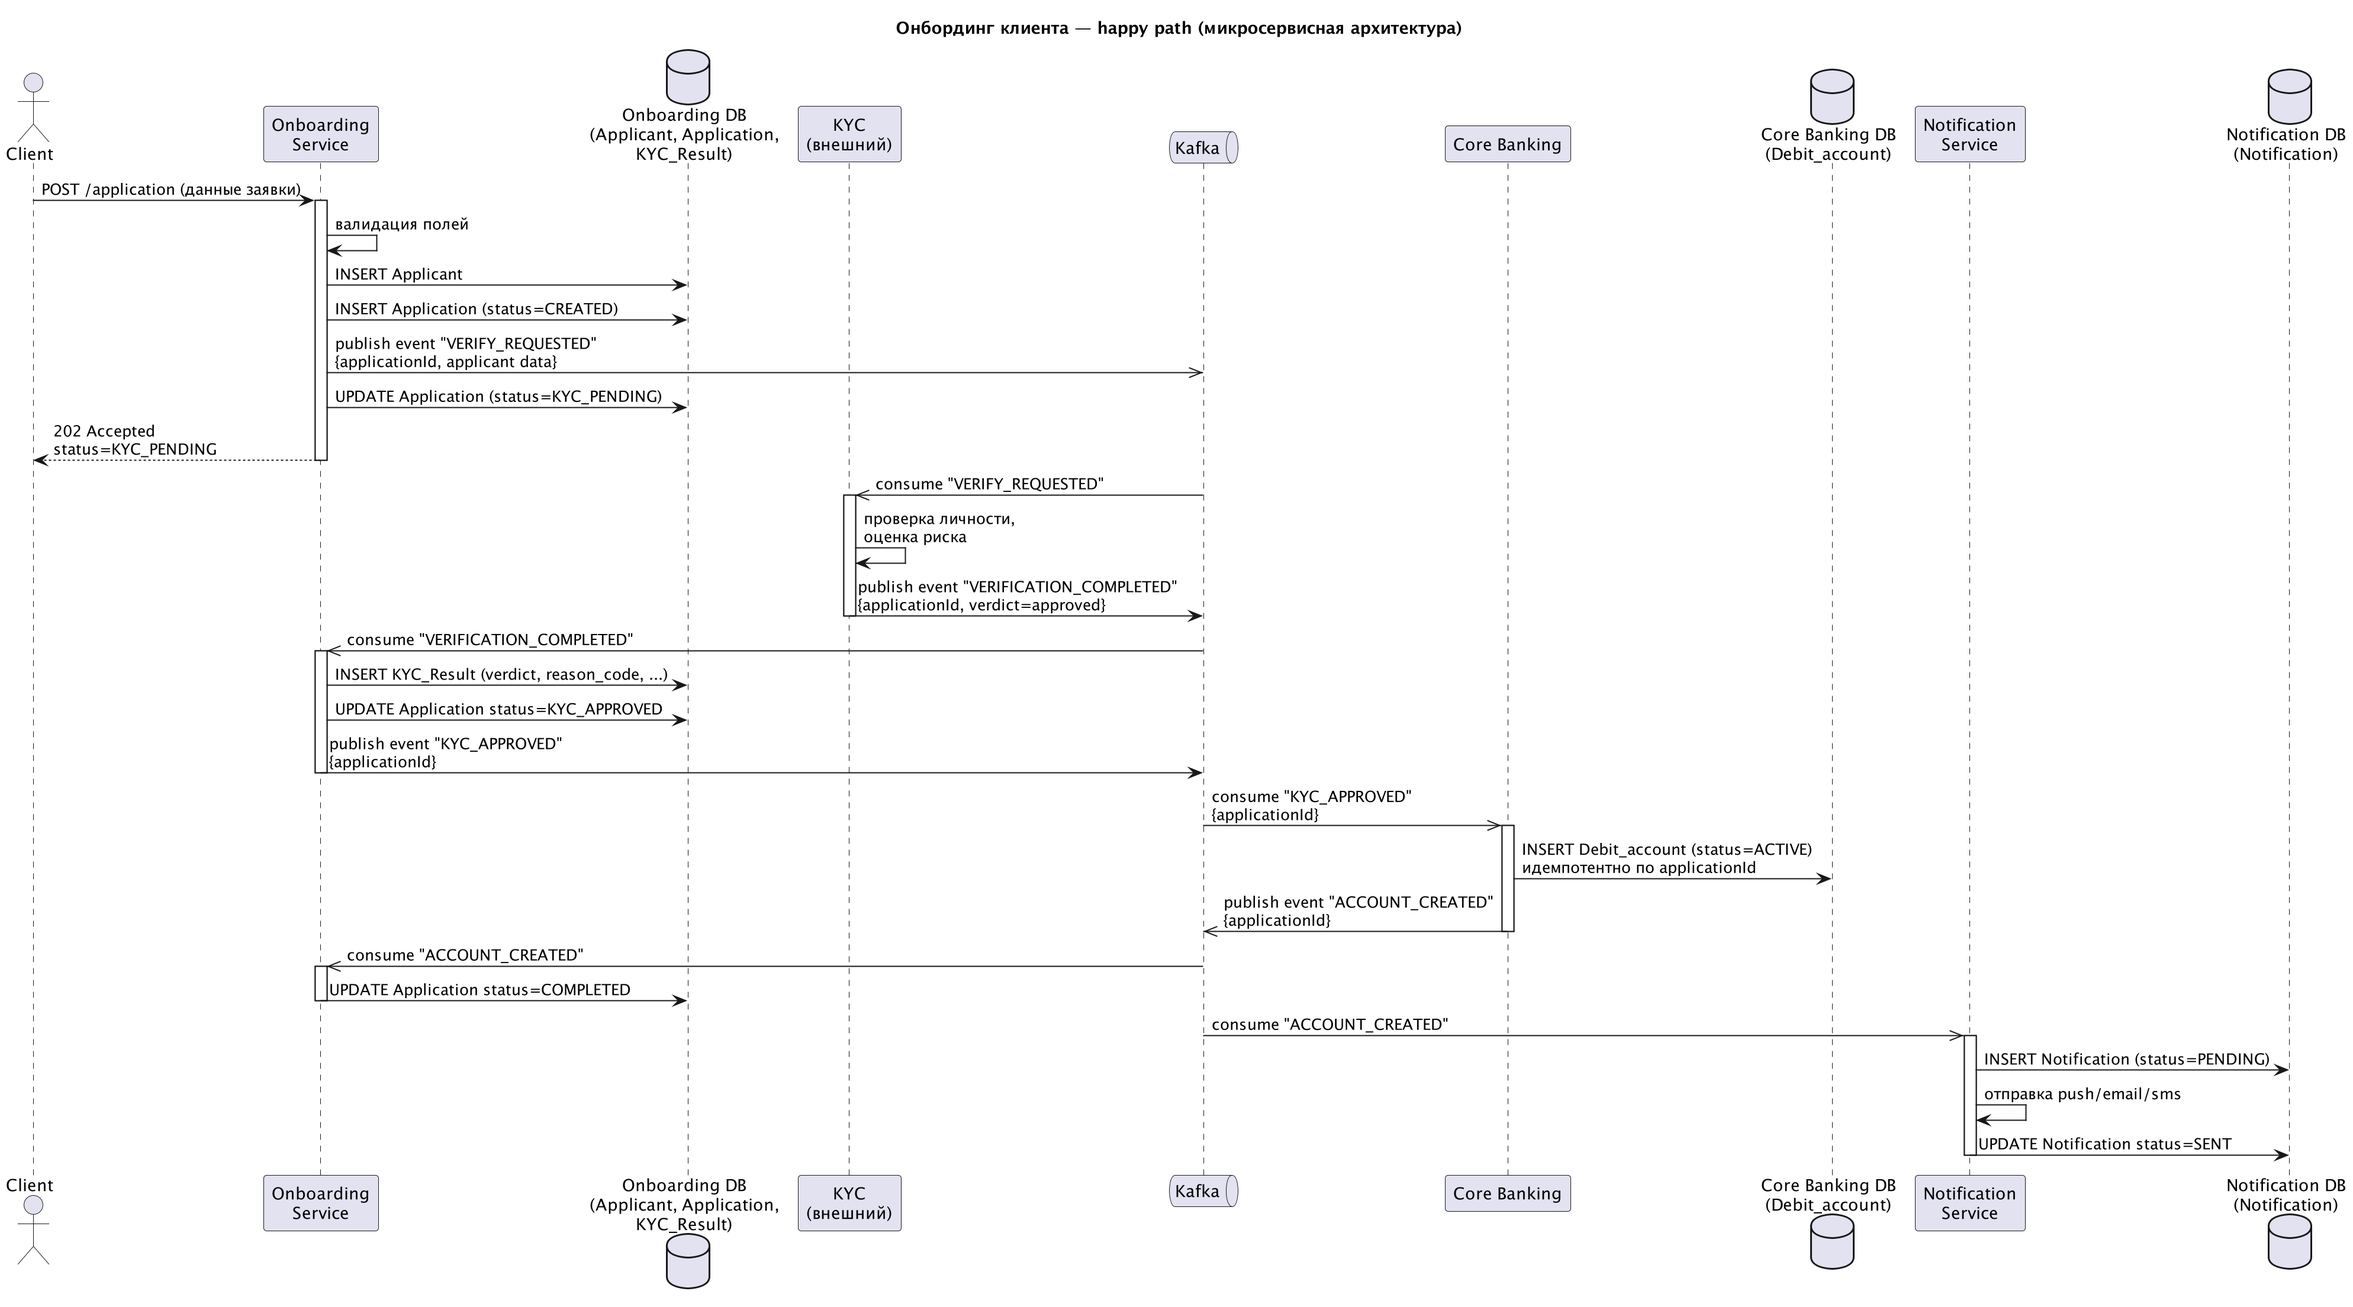
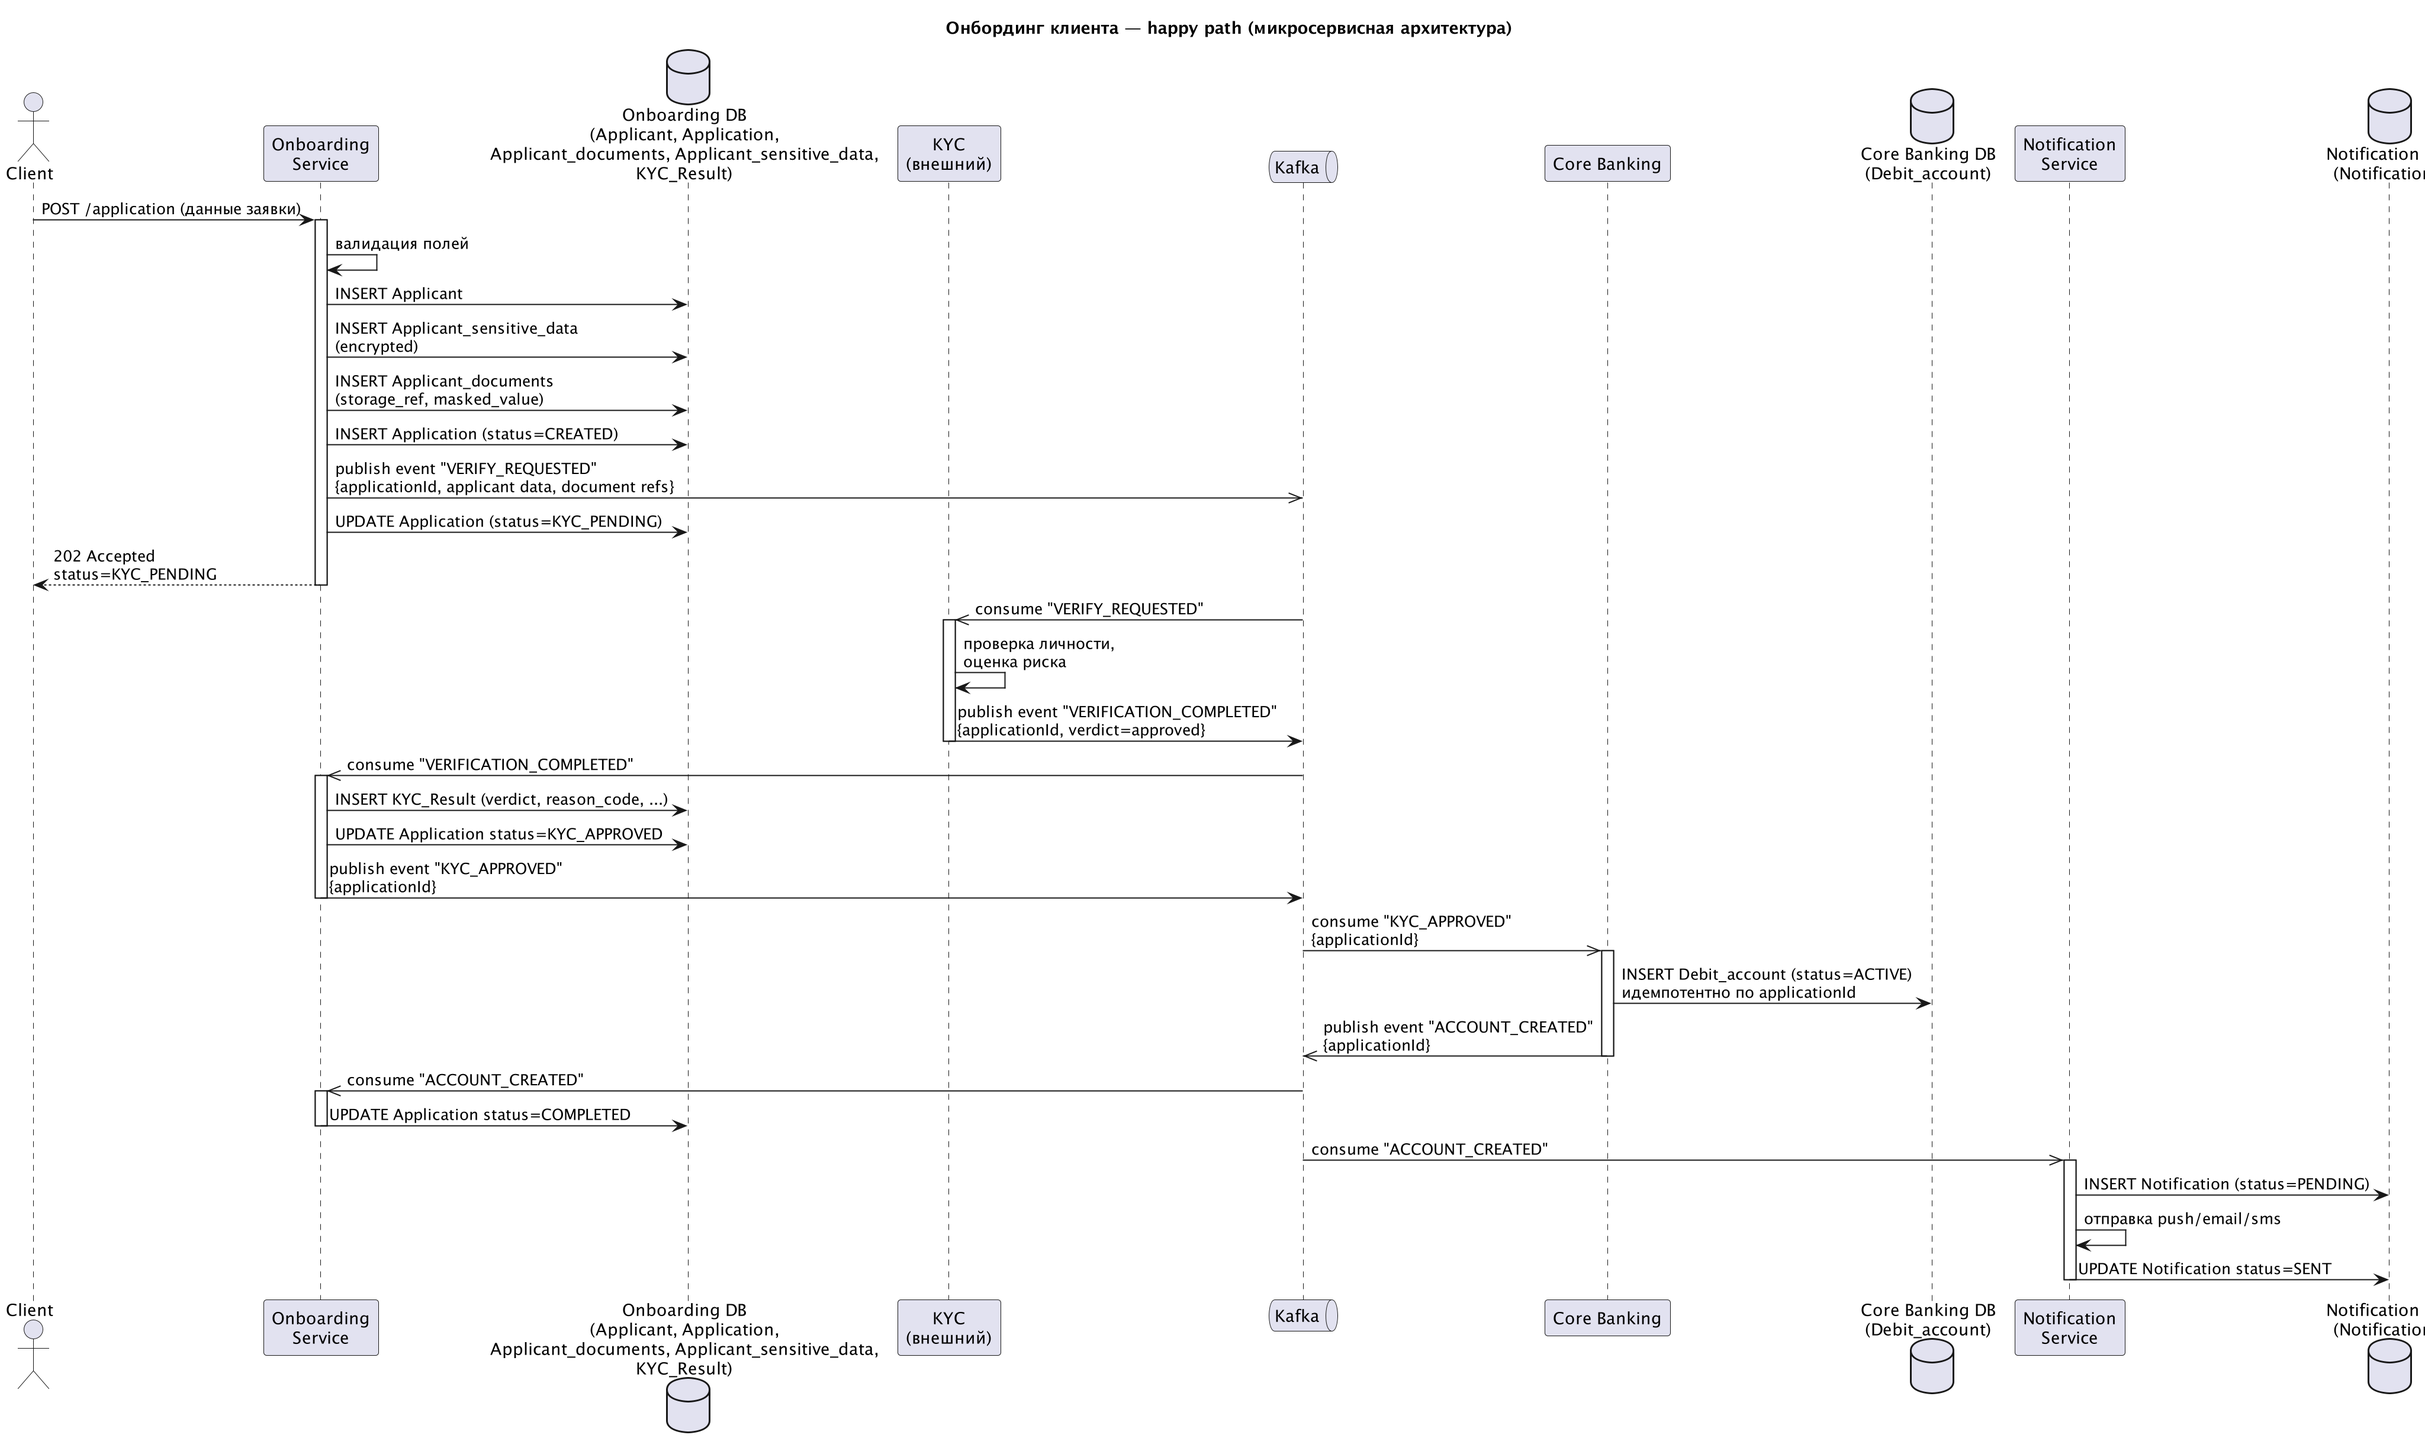
feat: обновил ERD и DBML, добавил новые таблицы и связи для обработки документов и чувствительных данных клиента

diff --git a/requirements/use-cases.md b/requirements/use-cases.md
@@ -22,10 +22,10 @@
 
 ### Happy Path
 1. [Client] нажал на кнопку "Открыть счёт"
-2. [Система] предоставляет форму для заполнения данных
-3. [Client] заполняет все необходимые поля и нажимает "Оформить заявку"
-4. [Система] валидирует введённые данные
-5. [Система] отправляет данные в KYC
+2. [Система] предоставляет форму для заполнения персональных данных и загрузки документов (паспорт, фото)
+3. [Client] заполняет все необходимые поля, загружает документы и нажимает "Оформить заявку"
+4. [Система] валидирует введённые данные и наличие обязательных документов
+5. [Система] сохраняет персональные данные и документы, отправляет данные в KYC
 6. [KYC] проверяет личность клиента и оценивает риски
 7. [KYC] отправляет в систему статус "Approved"
 8. [Система] принимает статус "Approved"
@@ -33,9 +33,9 @@
 10. [Система] отправляет уведомление клиенту со статусом "Approved"
 
 ### Альтернативные сценарии
-- **4a.** Не все поля заполнены → система не пропускает заявку, просит заполнить обязательные поля (подсвечены красным)
+- **4a.** Не все обязательные поля заполнены или не загружены обязательные документы → система не пропускает заявку, просит заполнить/загрузить недостающее (подсвечены красным)
 - **5a.** KYC-сервис недоступен/не отвечает → клиент видит статус "заявка обрабатывается", результат придёт позже, заявка не теряется
 - **7a.** KYC оценил клиента как высокорискованного, статус "Rejected" → заявка отклоняется, клиент уведомляется
 - **7b.** KYC вернул статус "Manual Review" → заявка переходит в MANUAL_REVIEW, клиенту показывается "проверка занимает больше времени"
-- **7c.** Заявка в MANUAL_REVIEW → менеджер вручную рассматривает через административный интерфейс, выставляет решение (approved/rejected)
+- **7c.** Заявка в MANUAL_REVIEW → менеджер вручную рассматривает через административный интерфейс (включая загруженные документы), выставляет решение (approved/rejected)
 - **9a.** Ошибка при создании счёта в Core Banking после успешного KYC → клиент не получает преждевременного уведомления об успехе; система гарантирует, что счёт будет создан ровно один раз

diff --git a/requirements/functional.md b/requirements/functional.md
@@ -1,11 +1,11 @@
 # Функциональные требования
 
-| № | Требование | Источник | Приоритет | Статус |
-|---|---|---|---|---|
-| FR-001 | Система должна предоставить клиенту форму для ввода персональных данных при регистрации | — | Must | — |
-| FR-002 | Система должна валидировать обязательные поля формы при попытке отправки заявки, подсвечивать незаполненные поля и блокировать отправку до их заполнения | — | Must | — |
-| FR-003 | Система должна отправлять данные заявки в KYC-сервис после успешной валидации формы | — | Must | — |
-| FR-004 | Система должна создавать банковский счёт в Core Banking при получении статуса "KYC approved" | — | Must | — |
-| FR-005 | Система должна уведомлять клиента при получении статуса "KYC_APPROVED" | — | Must | — |
-| FR-006 | Система должна отклонять заявку и уведомлять клиента при получении статуса "KYC_REJECTED" | — | Must | — |
-| FR-007 | Система должна уведомлять клиента при получении статуса "MANUAL_REVIEW" | — | Must | — |
+
+| FR-001 | Система должна предоставить клиенту форму для ввода персональных данных при регистрации 
+| FR-002 | Система должна валидировать обязательные поля формы при попытке отправки заявки, подсвечивать незаполненные поля и блокировать отправку до их заполнения 
+| FR-003 | Система должна отправлять данные заявки в KYC-сервис после успешной валидации формы 
+| FR-004 | Система должна создавать банковский счёт в Core Banking при получении статуса "KYC approved" 
+| FR-005 | Система должна уведомлять клиента при получении статуса "KYC_APPROVED" 
+| FR-006 | Система должна отклонять заявку и уведомлять клиента при получении статуса "KYC_REJECTED" 
+| FR-007 | Система должна уведомлять клиента при получении статуса "MANUAL_REVIEW" 
+| FR-008 | Система должна предоставлять клиенту возможность загрузить документы (паспорт, фото) как часть формы заявки 

diff --git a/requirements/non-functional.md b/requirements/non-functional.md
@@ -2,8 +2,9 @@
 
 - **Производительность:** время ответа API не более 5000 мс
 - **Доступность:** 99.9% в год (~8.76 часа простоя в год)
+- **Security/Compliance:** чувствительные персональные данные (паспорт, СНИЛС, ИНН, адреса) хранятся в БД в зашифрованном виде; сканы документов (паспорт, фото) не хранятся в основной БД — только ссылка на защищённое хранилище (vault)
 
 ## TODO — доработать по замечаниям ревью
 - Throughput: сколько заявок в секунду/минуту система должна выдерживать (бизнес-цель — "тысячи заявок")
 - Latency отдельно для синхронной части (валидация, ответ 202) и асинхронной (полный цикл CREATED → COMPLETED)
-- Security/Compliance: шифрование персональных данных (паспорт, фото) в Kafka и БД
+- Security/Compliance: шифрование данных именно в Kafka (in-transit) — вопрос ещё не проработан, сейчас закрыт только уровень БД

diff --git a/requirements/glossary.md b/requirements/glossary.md
@@ -1,9 +1,10 @@
 # Глоссарий
 
-| Термин | Значение |
-|---|---|
+
 | Applicant | Физическое лицо, подающее заявку на открытие счёта |
 | Application | Заявка на открытие счёта, привязанная к Applicant |
 | KYC verdict | Итоговое решение KYC-провайдера: approved / rejected / manual_review |
+| Applicant Document | Скан/фото документа клиента (паспорт, фото), хранится по ссылке в защищённом хранилище (vault), не в основной БД |
+| Sensitive Data | Чувствительные персональные данные клиента (паспорт, СНИЛС, ИНН, адреса), хранятся в БД в зашифрованном виде |
 
 ## TODO — дополнить по мере проработки

diff --git a/requirements/traceability-matrix.md b/requirements/traceability-matrix.md
@@ -2,6 +2,6 @@
 
 | User Story | Функциональные требования | Диаграммы |
 |---|---|---|
-| US-001 | FR-001, FR-002, FR-003, FR-004, FR-005, FR-006, FR-007 | erd/schema.dbml, sequence/*.puml, state/*.puml |
+| US-001 | FR-001, FR-002, FR-003, FR-004, FR-005, FR-006, FR-007, FR-008 | erd/schema.dbml, sequence/*.puml, state/*.puml |
 
 ## TODO — заполнить ссылками на конкретные файлы диаграмм по мере создания
